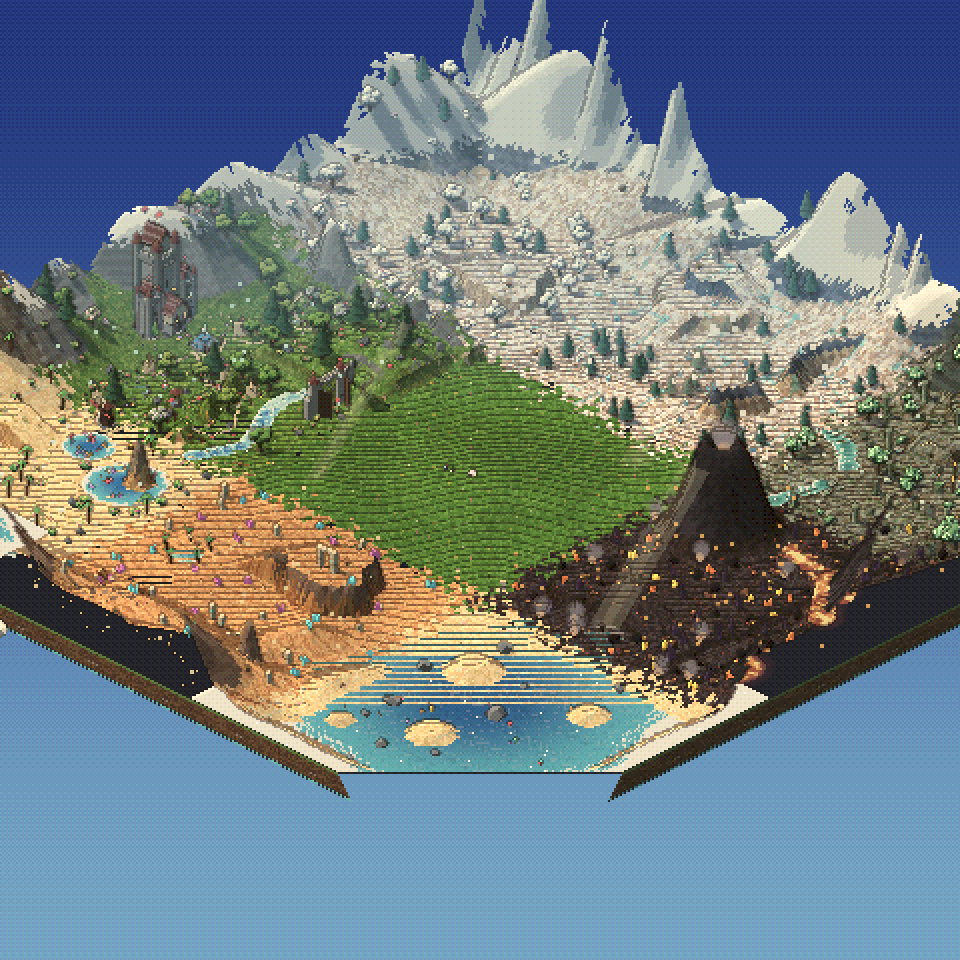
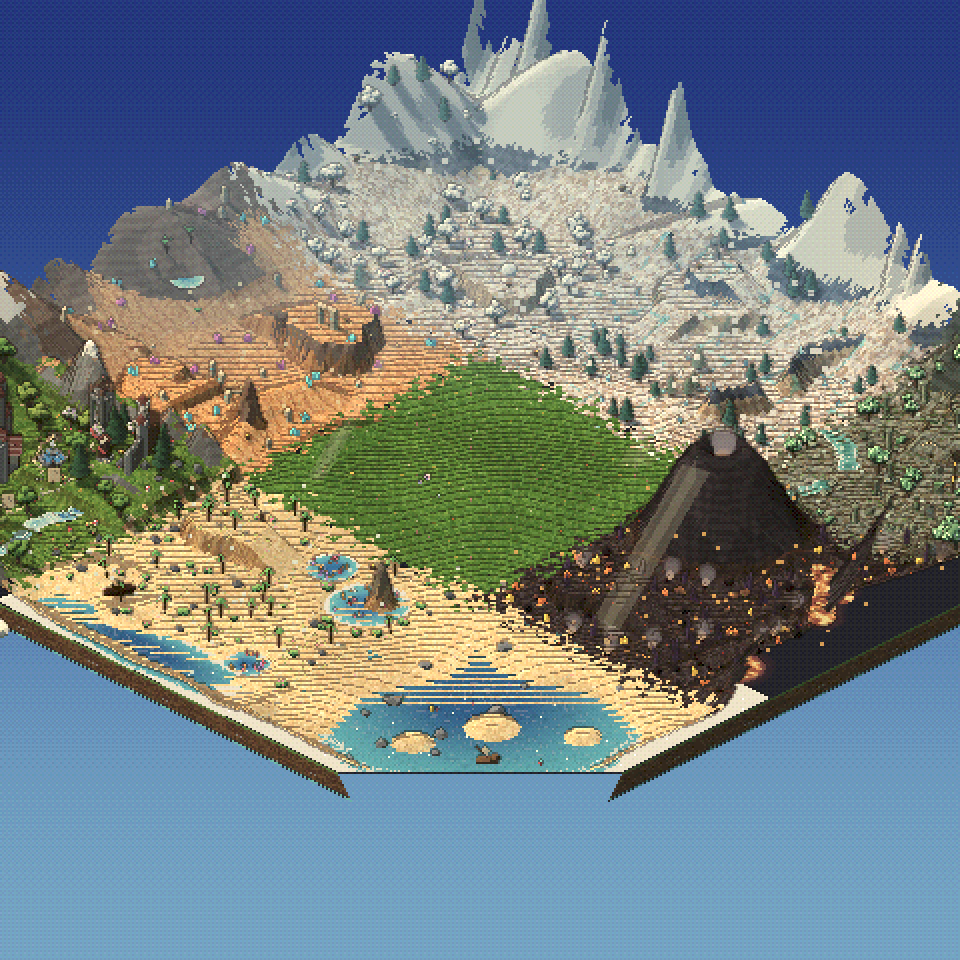
大きな世界を 本番に：左下の 森から 始まる・砂浜の 2 地方を となりに・火山を 太く・海に 砂浜・セーブ
Claude-Session: https://claude.ai/code/session_0123UptJxvfEXsQxns9cL3Y3

diff --git a/src/world/worldmap.ts b/src/world/worldmap.ts
@@ -14,23 +14,32 @@ import type { FoodSpot, Obstacle, Stage } from './stages'
 export const TILE = 40
 /** 北 → 南・西 → 東 の ならび（-1 = 城の丘 / -2 = 浅瀬） */
 // 2026-11-15：西（左）の まんなかを 森（味方の 町が 始まる）・まんなかは 何もない 丘（戦場）・右上の いせきに 敵の 町・南東は 海
+// 2026-11-15（2）：左下（南西）の すみを 森（味方の スタート）・右上（北東）の いせきに 敵。砂浜の 2 つ（入り江・海）は 南に ならべる
 const LAYOUT = [
   [3, 4, 6],
-  [0, -1, 5],
-  [2, 1, -2],
+  [1, -1, 5],
+  [0, 2, -2],
 ]
 /** 海の 地方（ここの 外がわは 山で なく 海が 世界の ふちまで つづく） */
 const SEA = -2
 export const WORLD_SIZE = TILE * 3
+/** 大きな 世界の 森の 地方の まんなか（古い セーブの 森の 町を うつす 先の 目安） */
+export function worldForest() {
+  for (let j = 0; j < 3; j++) for (let i = 0; i < 3; i++) if (LAYOUT[j][i] === 0) return { x: (i - 1) * TILE - 2, z: (j - 1) * TILE - 2 }
+  return { x: 0, z: 0 }
+}
 
 /**
  * 海の 地方：ひろい 海に 砂の 小島と 岩・難破船・ブイ・海の 上の さんご。水は 0.3 より 低い 所（地面が 水を かくす）。
  * 当たり判定は 低い 所に 水の 丸を ならべる（浮く 子だけ 入れる）
  */
 function seaTile(): Stage {
-  const isles: [number, number, number, number][] = [[-9, -8, 4.2, 1.3], [8, -10, 3.0, 1.0], [-2, 6, 3.6, 1.2], [11, 9, 2.6, 0.9], [-12, 11, 2.2, 0.7]]
+  const isles: [number, number, number, number][] = [[2, 0, 3.8, 1.2], [11, -6, 2.6, 0.9], [-2, 9, 3.0, 1.0], [12, 11, 2.4, 0.8]]
   const heightAt = (x: number, z: number) => {
     let h = 0.16 + Math.sin(x * 0.4) * Math.sin(z * 0.37) * 0.04
+    // 砂浜：陸（西と 北）の がわは 波打ちぎわから なだらかに 上がる
+    const shore = Math.max(smooth(-TILE / 2 + 11, -TILE / 2 + 3, x + Math.sin(z * 0.3) * 1.5), smooth(-TILE / 2 + 11, -TILE / 2 + 3, z + Math.sin(x * 0.27) * 1.5))
+    h = Math.max(h, 0.16 + shore * 0.55)
     for (const [ix, iz, r, hh] of isles) h = Math.max(h, 0.16 + hh * smooth(r, r * 0.35, Math.hypot(x - ix, z - iz)) + Math.sin(x * 1.3 + z) * 0.05 * smooth(r, 0, Math.hypot(x - ix, z - iz)))
     return h
   }
@@ -90,10 +99,10 @@ function seaTile(): Stage {
   sail.position.set(0.7, 1.7, 0)
   sail.rotation.z = 0.5
   ship.add(hull, mast, sail)
-  ship.position.set(6, 0.05, 12)
+  ship.position.set(7, 0.05, 6)
   ship.rotation.set(0.15, 0.6, 0.25)
   group.add(ship)
-  obstacles.push({ x: 6, z: 12, r: 1.6 })
+  obstacles.push({ x: 7, z: 6, r: 1.6 })
   return {
     id: 0, name: '', sub: '', group, heightAt, obstacles, foodSpots: [],
     food: { name: '', color: '#fff', leaf: '#fff' }, residents: [],
@@ -181,7 +190,9 @@ export function buildWorldMap(): Stage {
   const seaW = (x: number, z: number) => {
     let w = 0
     tiles.forEach((t, i) => {
-      if (LAYOUT[Math.floor(i / 3)][i % 3] === SEA) w = Math.max(w, smooth(10, -4, Math.max(Math.abs(x - t.ox), Math.abs(z - t.oz)) - TILE / 2))
+      // 海の 地方と、南に 海の ある さんごの入り江（2）の そばは 外の 山を 作らない
+      const n = LAYOUT[Math.floor(i / 3)][i % 3]
+      if (n === SEA || n === 2) w = Math.max(w, smooth(10, -4, Math.max(Math.abs(x - t.ox), Math.abs(z - t.oz)) - TILE / 2))
     })
     return w
   }
@@ -288,8 +299,15 @@ export function buildWorldMap(): Stage {
   // 味方は 森の はじまりの 場所から、敵は 右上の いせきの まんなかで 町を そだてる
   const forest = tiles.find((_t, i) => LAYOUT[Math.floor(i / 3)][i % 3] === 0)!
   const ruins = tiles.find((_t, i) => LAYOUT[Math.floor(i / 3)][i % 3] === 6)!
-  const fst = forest.s.start ?? { x: 0, z: 0 }
-  const start = { x: fst.x + forest.ox, z: fst.z + forest.oz }
+  // 森の 地方の 西がわ（外の 山なみに かからない 所）。まわりの 木と 岩は どける（町の 土地）
+  const start = { x: forest.ox - 2, z: forest.oz - 2 }
+  const CLEAR = 10
+  for (let i = obstacles.length - 1; i >= 0; i--) if (!obstacles[i].water && Math.hypot(obstacles[i].x - start.x, obstacles[i].z - start.z) < CLEAR) obstacles.splice(i, 1)
+  for (const c of [...forest.s.group.children]) {
+    if (c.userData.backdrop) continue
+    if (Math.hypot(c.position.x + forest.ox - start.x, c.position.z + forest.oz - start.z) < CLEAR && !(c as THREE.Mesh).geometry?.type?.includes('Plane')) c.visible = false
+  }
+  for (let i = foodSpots.length - 1; i >= 0; i--) if (Math.hypot(foodSpots[i].x - start.x, foodSpots[i].z - start.z) < CLEAR) foodSpots.splice(i, 1)
   const foeStart = { x: ruins.ox + 1.2, z: ruins.oz + 1.2 }
   const home = forest.s
   return {

diff --git a/src/world/parts/save.ts b/src/world/parts/save.ts
@@ -2,6 +2,7 @@
 import { EGG_COLORS, SPECIES, familyOf, newSeed, type Care, type EggKind, type SpeciesId } from '../monsters'
 import type { Facts } from '../../journal'
 import { HALF, LAND_SIZES, STAGES, setLandSize } from '../stages'
+import { WORLD_SIZE } from '../worldmap'
 import { STRUCTS, isStructKind, type StructKind } from '../structures'
 import { ITEM_SPEC, isItemKind, type ItemKind } from '../items'
 import { SHOP } from '../shop'
@@ -26,6 +27,7 @@ export function save(this: World) {
     friends: friends.map(c2),
     houses: this.houses.map((h) => ({ stage: h.stage, x: h.x, z: h.z, ownerSp: h.ownerSp, owner: ownerKey(h), mats: h.mats, hp: Math.round(h.hp), era: h.era, age: Math.round(h.age) })),
     eraPath: this.eraPath,
+    world: this.worldMode || undefined,
     townWalls: this.townWalls,
     foeHouses: this.foeHouses.map((h) => ({ stage: h.stage, x: h.x, z: h.z, mats: h.mats, hp: Math.round(h.hp), era: h.era, age: Math.round(h.age) })),
     foeWalls: this.foeWalls,
@@ -65,7 +67,8 @@ export function load(this: World): boolean {
     this.stats.lineage = (Array.isArray(this.stats.lineage) ? this.stats.lineage : []).filter((n: unknown) => typeof n === 'string').slice(-12).map((n: string) => n.slice(0, 12))
     this.oldWarned = this.stats.petAge / LIFESPAN > 0.85
     this.land = Math.round(num(d.land, 0, LAND_SIZES.length - 1, 0))
-    setLandSize(LAND_SIZES[this.land])
+    // 大きな 世界の セーブは 世界の 広さで 読む（古い 1 まいの セーブは その 広さで 読んで あとで ずらす）
+    setLandSize(this.worldMode && d.world ? WORLD_SIZE : LAND_SIZES[this.land])
     this.dex = {}
     if (d.dex && typeof d.dex === 'object' && !Array.isArray(d.dex))
       for (const [k, v] of Object.entries(d.dex)) if (isSpecies(k) && (v === 1 || v === 2)) this.dex[k] = v
@@ -146,7 +149,27 @@ export function load(this: World): boolean {
       .filter((o) => o && typeof o.id === 'string' && SHOP.some((x) => x.id === o.id && (x.plan || x.item)))
       .slice(0, MAX_ORDERS)
       .map((o) => ({ id: o.id as string, stage: Math.round(num(o.stage as number, 0, STAGES.length - 1)) }))
-    this.loadStage(Math.min(STAGES.length - 1, Math.round(num(d.stage, 0, STAGES.length - 1))))
+    // 大きな 世界へ はじめて 読む 古い セーブ：森（ステージ 0）の 町を 世界の 森へ ずらす。ほかの ステージの 物と へい・敵の 町は 持ってこない
+    if (this.worldMode && !d.world) {
+      const oldK = LAND_SIZES[this.land] / 20
+      const to = this.worldForest()
+      const mv = (o: { x: number; z: number }) => {
+        o.x = o.x + 5.2 * oldK + to.x
+        o.z = o.z - 1.0 * oldK + to.z
+      }
+      this.houses = this.houses.filter((h) => h.stage === 0)
+      this.houses.forEach(mv)
+      this.structs = this.structs.filter((b) => b.stage === 0 && b.kind !== 'wall' && b.kind !== 'bridge')
+      this.structs.forEach(mv)
+      this.items = this.items.filter((it) => it.stage === 0)
+      this.items.forEach(mv)
+      this.townWalls = {}
+      this.foeHouses = []
+      this.foeWalls = {}
+      this.orders = this.orders.filter((o) => o.stage === 0)
+    }
+    // 古い 1 まいの セーブを 大きな 世界から もどす 時も ステージ 0 から
+    this.loadStage(this.worldMode ? 0 : Math.min(STAGES.length - 1, Math.round(num(d.stage, 0, STAGES.length - 1))))
     type Saved = { sp: SpeciesId; hp: number; maxHp: number; atk: number; hunger: number; energy: number; grow: number; xp?: number; care?: Record<Care, number>; bias?: Care; seed?: number; rare?: boolean; age?: number; life?: number }
     /** 見た目のシード（古いセーブには無いので、その時は新しく決める）。色ちがいは 保存されたものだけ */
     const lookOfSaved = (s: Saved) => ({ seed: Math.round(num(s.seed, 0, 0x7fffffff, newSeed())), rare: s.rare === true && SPECIES[s.sp].tier > 0 })
@@ -162,11 +185,12 @@ export function load(this: World): boolean {
       }
       c.anim.setHeight(this.size(c))
     }
-    this.pet = this.spawn(d.pet.sp, 'pet', 0, 1.5, 0, lookOfSaved(d.pet))
+    const st0 = this.stage.start ?? { x: 0, z: 0 }
+    this.pet = this.spawn(d.pet.sp, 'pet', st0.x, st0.z + 1.5, 0, lookOfSaved(d.pet))
     apply(this.pet, d.pet)
     const friends: Creature[] = []
     for (const f of ((Array.isArray(d.friends) ? d.friends : []) as Saved[]).slice(0, 40)) if (f && isSpecies(f.sp)) {
-      const c = this.spawn(f.sp, 'friend', (Math.random() - 0.5) * 2, 2.2, 0, lookOfSaved(f))
+      const c = this.spawn(f.sp, 'friend', st0.x + (Math.random() - 0.5) * 2, st0.z + 2.2, 0, lookOfSaved(f))
       apply(c, f)
       friends.push(c)
     }

diff --git a/src/world/stages2.ts b/src/world/stages2.ts
@@ -149,12 +149,13 @@ function volcano(): Stage {
   //  北〜東 = 火山の ふもとから 東のふちへ ながれる 溶岩の川（わたれる 岩の 浅瀬が 1 つ。むこう岸に たからばこ）
   //  南東 = 大きな 溶岩の湖 / 南西 = 玄武岩の 台地（東の坂・上に たからばこ）/ まんなか = 村のための 平らな所
   const k = SIZE / 20
-  const CONE = { x: -5.6, z: -5.6, R: 4.2, H: 8.5 * Math.sqrt(k) }
+  // 2026-11-15：ふもとを 広く・どっしり（もとは R 4.2 で 細かった）
+  const CONE = { x: -5.2, z: -5.2, R: 6.2, H: 8.5 * Math.sqrt(k) }
   const MESA = { x: -5.6, z: 4.8, r: 2.2, h: 2.2 }
   const crater = { x: CONE.x * k, z: CONE.z * k }
   const pools: LavaPool[] = [{ x: 5.8 * k, z: 5.2 * k, r: 2.0 * k, crust: 1 }]
   // 川：折れ線に そって 丸を つなぐ。浅瀬（FORD）の所だけ あける
-  const RIVER: [number, number][] = [[-2.2, -6.9], [0, -6.7], [2.4, -6.2], [4.6, -5.2], [6.3, -3.5], [7.4, -1.4], [8.6, 0.4], [10, 1.8]]
+  const RIVER: [number, number][] = [[1.4, -6.7], [2.4, -6.2], [4.6, -5.2], [6.3, -3.5], [7.4, -1.4], [8.6, 0.4], [10, 1.8]]
   const FORD = { x: 5.5, z: -4.4 }
   const riverR = 0.7 * k
   for (let i = 0; i < RIVER.length - 1; i++) {
@@ -189,7 +190,7 @@ function volcano(): Stage {
     h = Math.max(h, mesa(x, z) + 0.26)
     // 火山：ふもとは なだらか・上は 崖。てっぺんは 火口（溶岩の 障害物で ふさぐ）
     const d = Math.hypot(x - CONE.x, z - CONE.z)
-    h += CONE.H * Math.pow(smooth(CONE.R, 0.9, d), 1.25) - 1.8 * smooth(0.9, 0.3, d)
+    h += CONE.H * Math.pow(smooth(CONE.R, 1.2, d), 0.9) - 2.0 * smooth(1.2, 0.4, d)
     return Math.max(0.24, h)
   }
 

diff --git a/src/world/World.ts b/src/world/World.ts
@@ -7,7 +7,7 @@ import { SpriteAnim, iconSheet } from './sprites'
 import { EGG_COLORS, NEW_SKILLS, SPECIES, enemyFor, newSeed, type Care, type EggKind, type MonsterView, type Species, type SpeciesId } from './monsters'
 import { WeatherFx, fxLod } from './fxprops'
 import { SIZE, STAGES, type Stage } from './stages'
-import { buildWorldMap } from './worldmap'
+import { buildWorldMap, worldForest } from './worldmap'
 import type { EraPath } from './eras'
 import { BABY } from './families'
 import { type StructKind } from './structures'
@@ -448,6 +448,7 @@ export class World {
   removeFood = Vi.removeFood
   lam = Vi.lam
   addOrder = Vi.addOrder
+  worldForest = worldForest
   townEra = Vi.townEra
   houseWear = Vi.houseWear
   updateTownEra = Vi.updateTownEra
@@ -831,10 +832,9 @@ export class World {
     this.scene.add(this.wfx.group)
     this.scene.add(this.skyfx.group)
     syncSeasonShop(this.season)
-    // `?world=1`：ひとつづきの世界の 見本（計画 C）。セーブは 読まない・書かない
-    this.worldMode = typeof location !== 'undefined' && new URLSearchParams(location.search).has('world')
-    if (this.worldMode) this.saveLocked = true
-    if (this.worldMode || !this.load()) {
+    // 2026-11-15：大きな 世界（ひとつづきの 9 地方）が 本番。`?single=1` で 昔の 1 まいずつの ステージ
+    this.worldMode = !(typeof location !== 'undefined' && new URLSearchParams(location.search).has('single'))
+    if (!this.load()) {
       this.loadStage(0)
       const st = this.stage.start ?? { x: 0, z: 0 }
       this.pet = this.spawn('mebu', 'pet', st.x, st.z + 1.5)

diff --git a/src/main.ts b/src/main.ts
@@ -1279,7 +1279,7 @@ document.addEventListener('visibilitychange', () => {
   fpsWatch.reset(2)
 })
 /** ひとつづきの世界の 見本（`?world=1`）：左上に 速さ（FPS）と 描く回数を 出す。スマホで はかるため */
-const worldFps = world.worldMode
+const worldFps = new URLSearchParams(location.search).has('fps')
   ? (() => {
       const el = document.createElement('div')
       el.style.cssText = 'position:fixed;left:6px;top:6px;z-index:99;padding:3px 7px;border-radius:6px;background:rgba(0,0,0,.6);color:#fff;font:12px monospace;pointer-events:none'
@@ -1291,7 +1291,7 @@ const worldFps = world.worldMode
         acc += raw
         n++
         if (acc < 1) return
-        el.textContent = `ONE WORLD  ${Math.round(n / acc)} fps  draw ${renderer.info.render.calls}  quality ${quality}`
+        el.textContent = `${Math.round(n / acc)} fps  draw ${renderer.info.render.calls}  quality ${quality}`
         acc = n = 0
       }
     })()

diff --git a/src/world/parts/ui.ts b/src/world/parts/ui.ts
@@ -385,6 +385,7 @@ export function shopCheck(this: World, s: ShopItem): ShopCheck {
   let have: number | undefined
   let max: number | undefined
   const no = (tone: ShopCheck['tone'], why: string): ShopCheck => ({ ok: false, tone, why, have, max })
+  if (s.land && this.worldMode) return no('lock', 'おおきな せかいでは かいたくは いらない')
   if (s.land) {
     if (this.land >= s.land) return no('done', 'この かいたくは もう すんでいる')
     if (this.land < s.land - 1) return no('lock', 'さきに かいたく ① を しよう')

diff --git a/CLAUDE.md b/CLAUDE.md
@@ -91,7 +91,8 @@ Three.js + TypeScript + Vite + vite-plugin-pwa。机の上に浮かぶ 3D の本
 - **表情**：Pose の `eye` / `mouth` / `mark` で 12〜21 コマ（hungry / sleepy / glad / angry / worry）。`faceOf()` が止まっている時の状態から選ぶ。**進化**は `c.evo`（白いシルエット → ふくらむ → 新しい姿、約 1.8 秒。見えない・3D モデルはすぐ切りかえ）。**敵の亜種 6 種とボス 3 種**は `monsters.ts` の `enemyFor()`（ステージの敵に混ぜる）/ `armyMember()` / `armyBoss()`（敵軍の編成。3 回に 1 回ボス、HP バーは `drawBossBar()`）
 - ペットの行動結果は `delta()` で増減を付けてメッセージに出す（ごはん・ねむり・トレーニング・あそび・家づくり）
 - **セキュリティ**（公開リポジトリ）：秘密・鍵・個人情報をコミットしない／外部通信を増やさない（CSP の `connect-src 'self'`、許可元は `vite.config.ts` の `CSP`）／セーブや読み込んだコードは信用せず `isSpecies()` / `num()` で検査／`innerHTML` に外部データを入れない。方針は `SECURITY.md`
-- **ひとつづきの世界の 見本（計画 C）**：`?world=1` で `World.worldMode`。`worldmap.ts` の `buildWorldMap()` が 9 つの地方（`LAYOUT`）を 広さ 40 で 作って 3×3 に ならべ、世界の広さを 120 に する（`setLandSize`）。地方の `heightAt` / `update` は 広さ 40 の つもりで 書いてあるので `inTile()` で 聞く間だけ 広さを もどす。セーブ・ワープ・かいたくは 止める。**つなぎ目なし（2026-11-15）**：`setEdgeOff(true)` で 地方の ふちを 下げずに 高さを 聞き、さかいめの まわり `BLEND`（7）で となりの 地方と 重みづけで まぜる（山が つながる・座標は 地方の 外 7 まで に おさえる）。地面は 地方ごとに `terrain(…, { area: { cx, cz, size, keep } })` で 作りなおし、面の もちぬしを 重み + 升目の ゆらぎで 決めて さかいめを まだらに する（元の 地面・土台・空は はずす。色の 組は 元の 地面から ひろう）。さかいめ 近くの 小物は 新しい 高さに のせなおす。**ならび（2026-11-15）**：西の まんなか = 森（味方の 町。世界の `start` は 森の はじまりの 場所）・まんなか = 何もない 丘（戦場）・右上 = いせき（敵の 町 `foeStart`）・南東 = 海（`seaTile()`：砂の 小島・岩・海の さんご・ブイ・難破船、水は 0.3 より 低い 所、当たりは 水の 丸）。世界の いちばん 外がわは のぼれない 山なみ（ふちまで のぼりつづける。海の 地方の そばは 海が ふちまで）。**読みこみ範囲**：`Stage.cull(x, z, r)` を `update` から 毎フレーム（r = 18 + 16 × ズーム）、遠い 地方の 小物の 箱と 地面を かくす。のこりは `docs/PLAN.md` の 5
+- **大きな 世界が 本番（2026-11-15）**：ふだんの あそびは ひとつづきの 9 地方（`World.worldMode` = `?single=1` が 無い時。`?single=1` で 昔の 1 まいずつの ステージ）。セーブも する（`world: true`）。古い 1 まいの セーブを はじめて 読む 時は、森（ステージ 0）の 家・建物・置き物・ちゅうもんを 世界の 森（`worldForest()`）へ ずらし、ほかの ステージの 物・へい・敵の 町は 持ってこない（重なりは `settle()`）。世界の セーブは `WORLD_SIZE` で 読む。ペットと なかまは `stage.start` に 出る。かいたくは いらない（ショップで 買えない）。左上の fps は `?fps=1`。ならび：**左下（南西）= 森（味方の スタート `start` = 森の まんなかの 西）・右上（北東）= いせき（敵の 町）**・南 = 入り江と 海（砂浜どうし となり）・西 = 砂丘・まんなか = 丘（戦場）・東 = かざん。かざんは ふもとを 広く（`CONE.R` 6.2）。海の 地方は 陸がわに 砂浜（波打ちぎわから なだらかに 上がる）。外の 山なみは 海と 入り江の そばでは 作らない
+- **ひとつづきの世界（計画 C）**：`World.worldMode`。`worldmap.ts` の `buildWorldMap()` が 9 つの地方（`LAYOUT`）を 広さ 40 で 作って 3×3 に ならべ、世界の広さを 120 に する（`setLandSize`）。地方の `heightAt` / `update` は 広さ 40 の つもりで 書いてあるので `inTile()` で 聞く間だけ 広さを もどす。セーブ・ワープ・かいたくは 止める。**つなぎ目なし（2026-11-15）**：`setEdgeOff(true)` で 地方の ふちを 下げずに 高さを 聞き、さかいめの まわり `BLEND`（7）で となりの 地方と 重みづけで まぜる（山が つながる・座標は 地方の 外 7 まで に おさえる）。地面は 地方ごとに `terrain(…, { area: { cx, cz, size, keep } })` で 作りなおし、面の もちぬしを 重み + 升目の ゆらぎで 決めて さかいめを まだらに する（元の 地面・土台・空は はずす。色の 組は 元の 地面から ひろう）。さかいめ 近くの 小物は 新しい 高さに のせなおす。**ならび（2026-11-15）**：西の まんなか = 森（味方の 町。世界の `start` は 森の はじまりの 場所）・まんなか = 何もない 丘（戦場）・右上 = いせき（敵の 町 `foeStart`）・南東 = 海（`seaTile()`：砂の 小島・岩・海の さんご・ブイ・難破船、水は 0.3 より 低い 所、当たりは 水の 丸）。世界の いちばん 外がわは のぼれない 山なみ（ふちまで のぼりつづける。海の 地方の そばは 海が ふちまで）。**読みこみ範囲**：`Stage.cull(x, z, r)` を `update` から 毎フレーム（r = 18 + 16 × ズーム）、遠い 地方の 小物の 箱と 地面を かくす。のこりは `docs/PLAN.md` の 5
 - 天気は `setWeather()`、出やすさはステージごとの `WEATHER_W`
 - **空の えんしゅつ**（`src/world/sky.ts` の `SkyFx`、`World.skyfx`。`updateWeather` から毎フレーム）：島の外がわを ながれる雲（雨・雪で ふえて灰色に・島へ せり出す）/ さしこむ 陽の光（晴れた昼。板を十字に組んだ 加算の帯。もや・にじ の時は強く。画質「低」は なし）/ 雷（雨 0.65 より上で 7〜21 秒ごと、見ている所の奥の高い所へ `strike()`。フラッシュは `reducedMotion` で弱く・音は `boom`・あたり判定なし）/ 天に のぼる 光の柱 `ascend()`
 - **地形と天気の見た目**（`world/fx.ts` + `fxprops.ts`）：天気の強さは `World.wx`（0〜1・なめらかに変わる）、シェーダー共通の値は `fxU`（`updateWeather` が毎フレーム入れる。ステージの `update` は不要）。木は `swayify(t)`（頂点に風の重みを焼く）、草と花は `grass()`、水面は `waterSurface()`、浮き物は `floaters()`。材質へは `psx(m, { sway, ground, snow })`。ぬれ・水たまり・波紋・雲の影・雪の積もり・にじ（雨あがり）・もや（朝）・熱のゆらぎ（ひのこ）・月と星の移動

diff --git a/docs/PLAN.md b/docs/PLAN.md
@@ -87,7 +87,7 @@
 - **見本が 動く**：URL に `?world=1` を つけると、7 ステージ + 新しい 2 つ（城の丘・浅瀬）を 3×3 に ならべた 120×120 の 1 枚の世界で 遊べる（`src/world/worldmap.ts` の `buildWorldMap()`、`World.worldMode`）。セーブは 読まない・書かない。ワープと かいたくは 止めてある。左上に FPS と 描く回数
 - 確かめたこと：9 つの地方 すべてに 歩いて行ける・生き物が 地方を またいで 動く・更新は 1 コマ 1.2 ミリ秒ほど（パソコン）
 - **つなぎ目なし**（2026-11-15）：さかいめで 高さを まぜ、山が つながり、地面の 模様は まだらに まざる（`docs/media/world-seamless.png`）
-- **これからの 順（2026-11-15 に 決めた）**：① つなぎ目なし（済み）→ ② 本番の あそびを 大きな マップに（セーブ・町・敵の町。西の はしから 味方・北東から 敵）→ ③ 道と 洞窟（よく 通る所が 道に・住民が 山に トンネルを 掘る）
+- **これからの 順（2026-11-15 に 決めた）**：① つなぎ目なし（済み）→ ② 本番の あそびを 大きな マップに（済み：左下の 森から 味方・右上の いせきに 敵・セーブ）→ ③ 道と 洞窟（よく 通る所が 道に・住民が 山に トンネルを 掘る）→ ④ 戦場と 拠点（B7）
 - **次に きめること**：スマホで `?world=1` を ひらいて FPS を 見る → 軽ければ このまま 進む / 重ければ「近くだけ 描く」を 先に 作る
 - のこり：さかいめの 色と地形を なじませる（いまは まっすぐな線）・森の 北と西の 山が 地方の ふちで 切れている・近くだけ描く・遠くの生き物を 間引く・いまいる地方で 名札 / 天気 / BGM / たまごの 出やすさ・ワープ → 遠くへの移動・セーブを 世界ぜんたいに（古いセーブの 家と建物は その地方へ）・ふつうの あそびと 入れかえる
 
